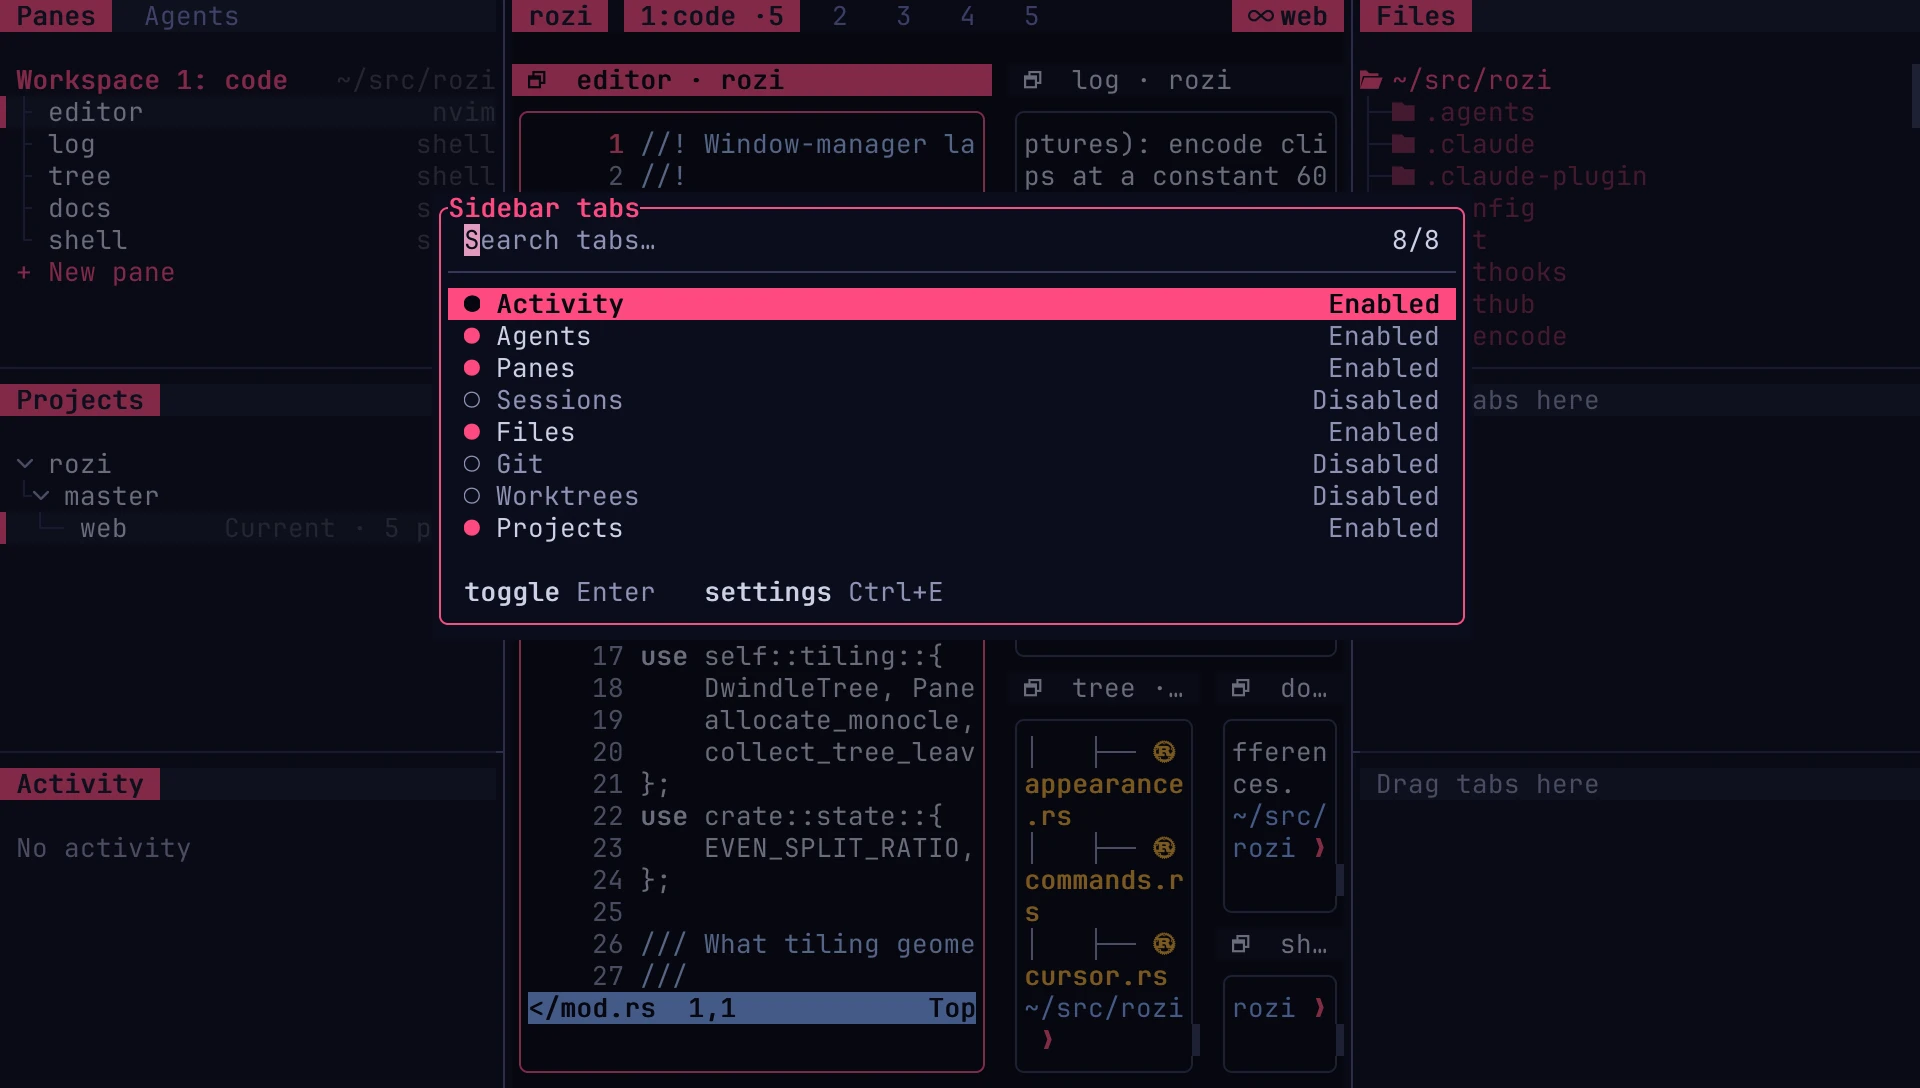
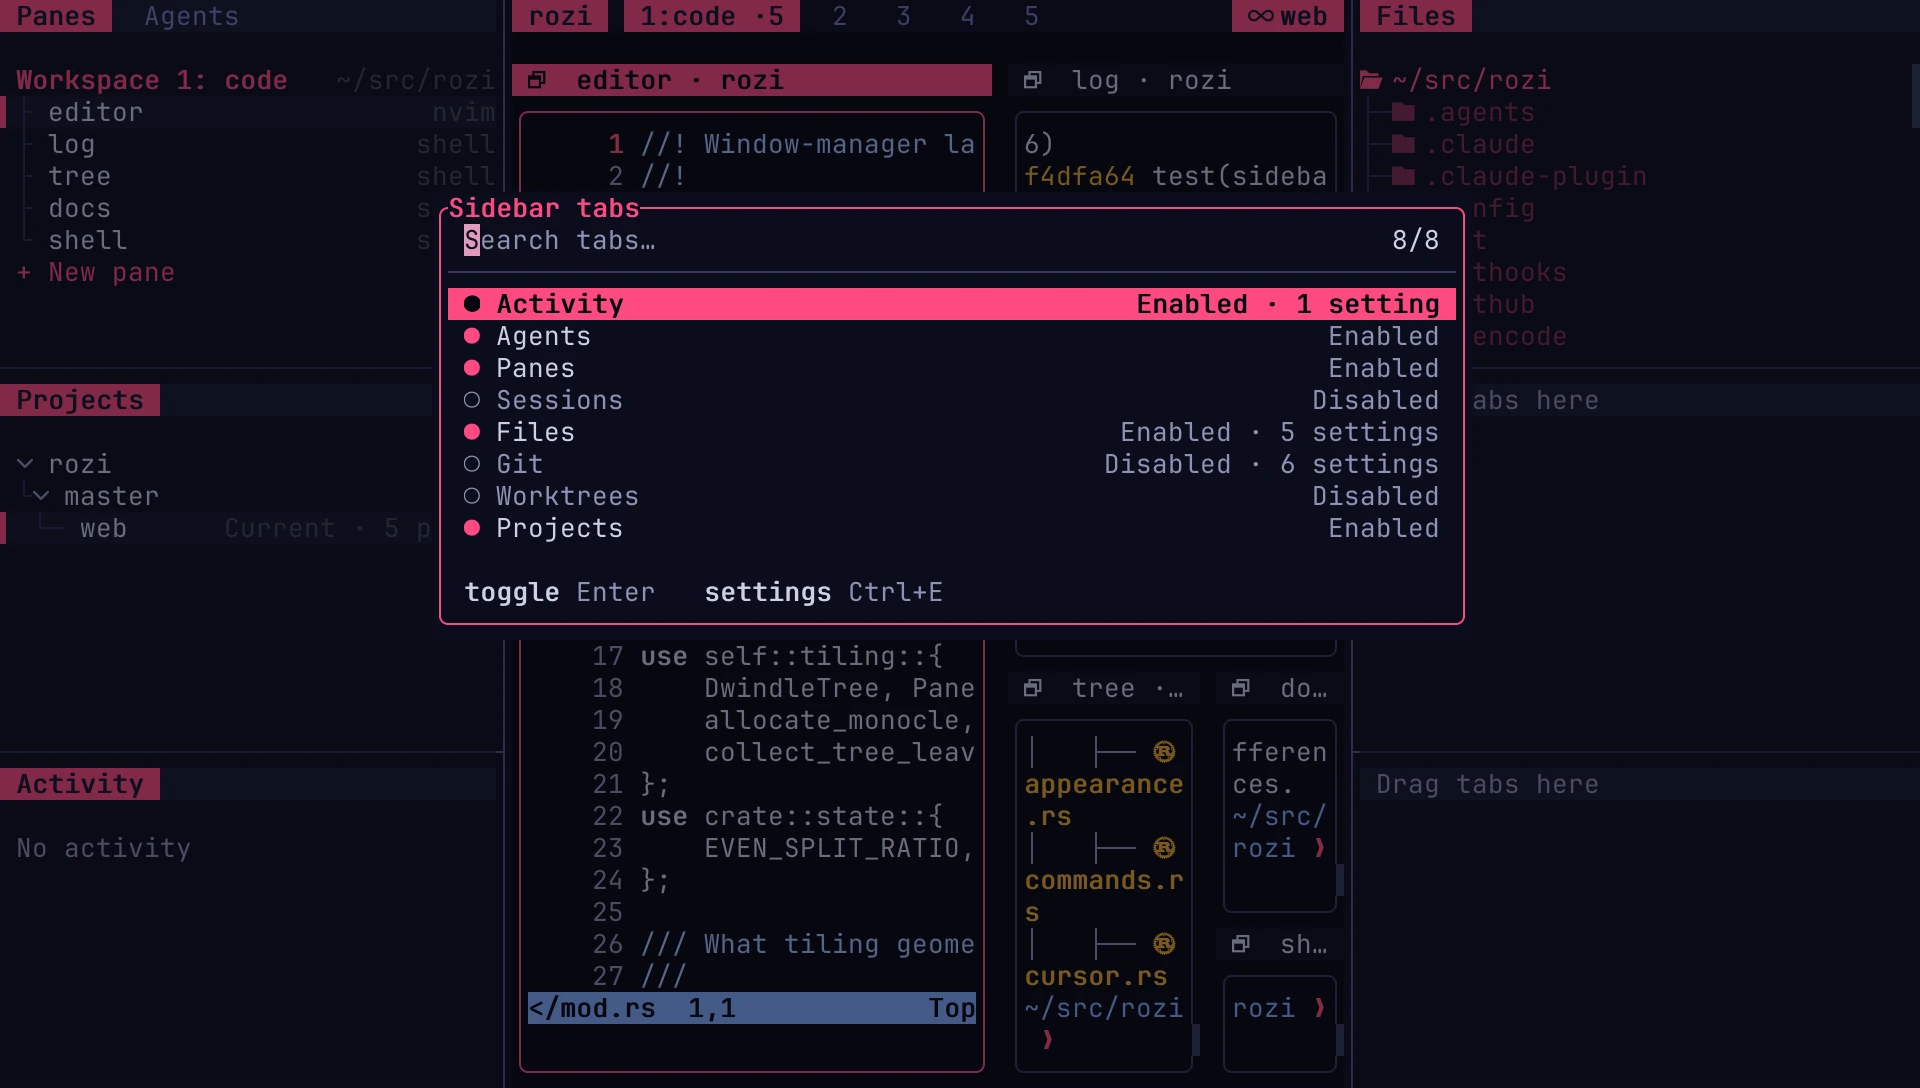
feat(sidebar): count each tab's settings in Sidebar tabs
A tab with settings reads, for example, Enabled · 5 settings, so it is visible which tabs Ctrl+E opens before one is highlighted. Such rows also match a search for settings.

diff --git a/src/view/overlays/sidebar_manager.rs b/src/view/overlays/sidebar_manager.rs
@@ -1,5 +1,7 @@
 use super::*;
 
+use crate::view::vocabulary;
+
 pub(crate) fn sidebar_manager_overlay(ctx: &Context<AppRoot>) -> Element {
     let layout = &ctx.state.config.sidebar.layout;
     let mut ids: Vec<_> = ctx
@@ -41,17 +43,35 @@ pub(crate) fn sidebar_manager_overlay(ctx: &Context<AppRoot>) -> Element {
         } else {
             "Disabled"
         };
-        entries.push(SearchEntry::Item(
-            SearchItem::new(
-                tab.map(|tab| tab.label().to_string())
-                    .unwrap_or_else(|| id.clone()),
-                id.clone(),
-            )
-            .alias(id.clone())
-            .alias(status)
-            .description(picker_description(status)),
-        ));
-        statuses.insert(id, (enabled, available));
+        // How many settings Ctrl+E opens, so a tab that has some says so before it is highlighted.
+        let settings = ctx
+            .state
+            .config
+            .sidebar
+            .tab_settings
+            .get(&id)
+            .map_or(0, |group| group.specs.len());
+        let description = vocabulary::fields([
+            status.to_string(),
+            if settings > 0 {
+                vocabulary::count(settings, "setting")
+            } else {
+                String::new()
+            },
+        ]);
+        let mut item = SearchItem::new(
+            tab.map(|tab| tab.label().to_string())
+                .unwrap_or_else(|| id.clone()),
+            id.clone(),
+        )
+        .alias(id.clone())
+        .alias(status)
+        .description(picker_description(&description));
+        if settings > 0 {
+            item = item.alias("settings");
+        }
+        entries.push(SearchEntry::Item(item));
+        statuses.insert(id, (enabled, available, description));
     }
     let manager = ctx.state.sidebar_manager.clone().unwrap_or_default();
     let selected = manager.selected.as_deref().and_then(|selected| {
@@ -103,8 +123,8 @@ pub(crate) fn sidebar_manager_overlay(ctx: &Context<AppRoot>) -> Element {
     )
     .placeholder("Search tabs…")
     .item_gutter(Arc::new(move |item, _| {
-        let &(enabled, available) = gutter_statuses.get(&item.value)?;
-        Some(crate::view::vocabulary::picker_marker_gutter(
+        let &(enabled, available, _) = gutter_statuses.get(&item.value)?;
+        Some(vocabulary::picker_marker_gutter(
             if !available {
                 "–"
             } else if enabled {
@@ -116,13 +136,13 @@ pub(crate) fn sidebar_manager_overlay(ctx: &Context<AppRoot>) -> Element {
         ))
     }))
     .render_item(Arc::new(move |item, _| {
-        let &(enabled, available) = statuses.get(&item.value)?;
-        if enabled && available {
+        let (enabled, available, description) = statuses.get(&item.value)?;
+        if *enabled && *available {
             return None;
         }
         Some(picker_row(
             [Span::new(item.label.clone()).style(muted)],
-            if available { "Disabled" } else { "Unavailable" },
+            description.as_str(),
             muted,
         ))
     }))

diff --git a/tests/suites/sidebar/sidebar_tab_settings_smoke.rs b/tests/suites/sidebar/sidebar_tab_settings_smoke.rs
@@ -92,6 +92,19 @@ fn a_tabs_settings_are_edited_from_sidebar_tabs_and_saved() {
         b.dispatch(Msg::RunAction(Action::OpenSettings)).unwrap();
         b.dispatch(Msg::SettingsActivate(SettingsAction::SidebarTabs))
             .unwrap();
+        // A tab with settings counts them beside its status; one without shows only the status.
+        let grid = screen(&mut b);
+        let row = |name: &str| {
+            grid.lines()
+                .find(|line| line.contains(&format!("● {name} ")))
+                .unwrap_or_else(|| panic!("{name} is listed:\n{grid}"))
+                .to_string()
+        };
+        assert!(row("Files").contains("Enabled · 5 settings"), "{grid}");
+        assert!(row("Git").contains("Enabled · 6 settings"), "{grid}");
+        assert!(row("Activity").contains("Enabled · 1 setting "), "{grid}");
+        assert!(!row("Panes").contains("setting"), "{grid}");
+
         b.dispatch(Msg::SidebarManagerSelect("panes".into()))
             .unwrap();
         // Panes has no settings, so the action is greyed and does nothing.

diff --git a/docs/sidebar.md b/docs/sidebar.md
@@ -394,8 +394,9 @@ rozi remembers which rows you expanded or collapsed until the client exits.
 </CaptureGallery>
 
 Open **Settings… → Bars → Sidebar tabs…** to choose which tabs appear. Search by name and press
-`Enter` to turn a tab on or off; the picker stays open so you can change several. `Ctrl+E` opens
-the highlighted tab's [settings](#tab-settings). A tab from an extension that is not loaded stays
+`Enter` to turn a tab on or off; the picker stays open so you can change several. A tab with
+[settings](#tab-settings) counts them beside its status, as in `Enabled · 5 settings`, and `Ctrl+E`
+opens them. A tab from an extension that is not loaded stays
 listed with a dash and keeps its place for when it returns.
 
 Arrange tabs by dragging them, or with the focused-sidebar keys above. Drop a tab on another
